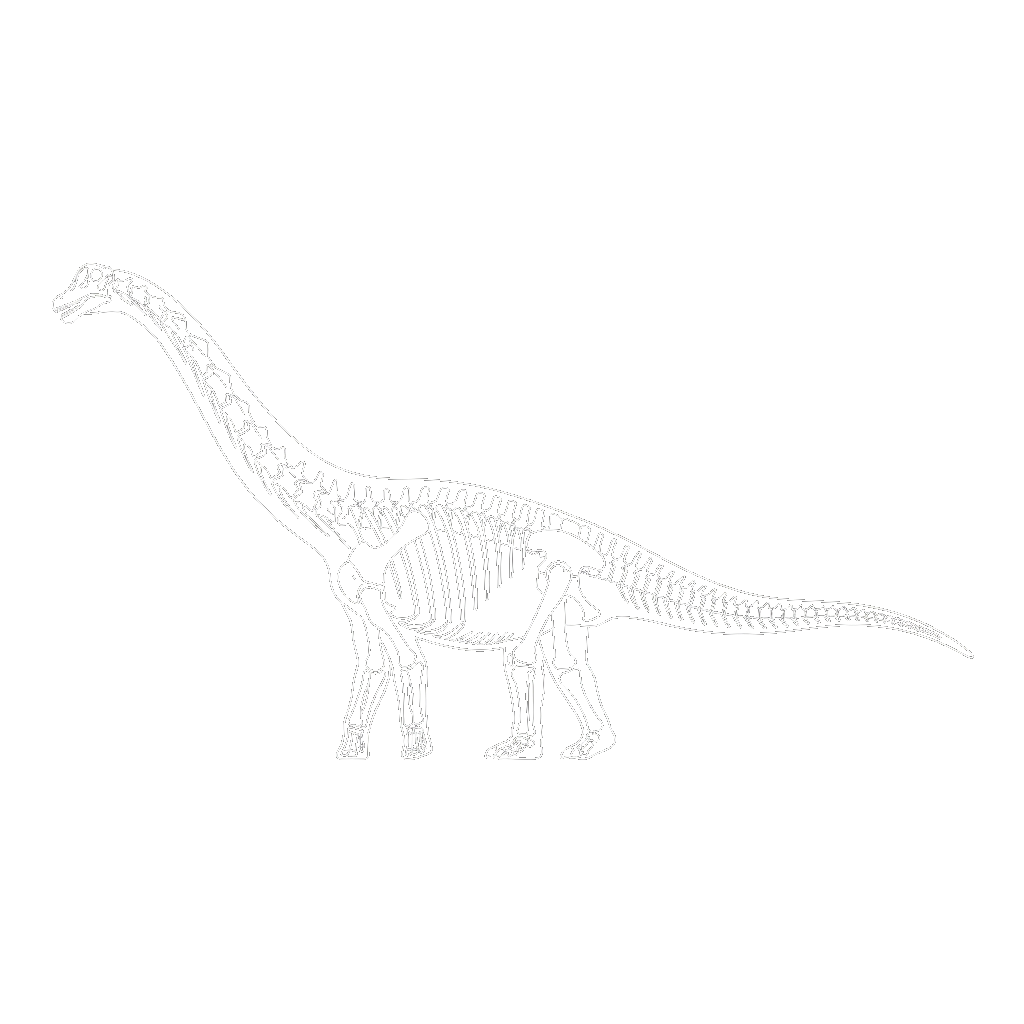
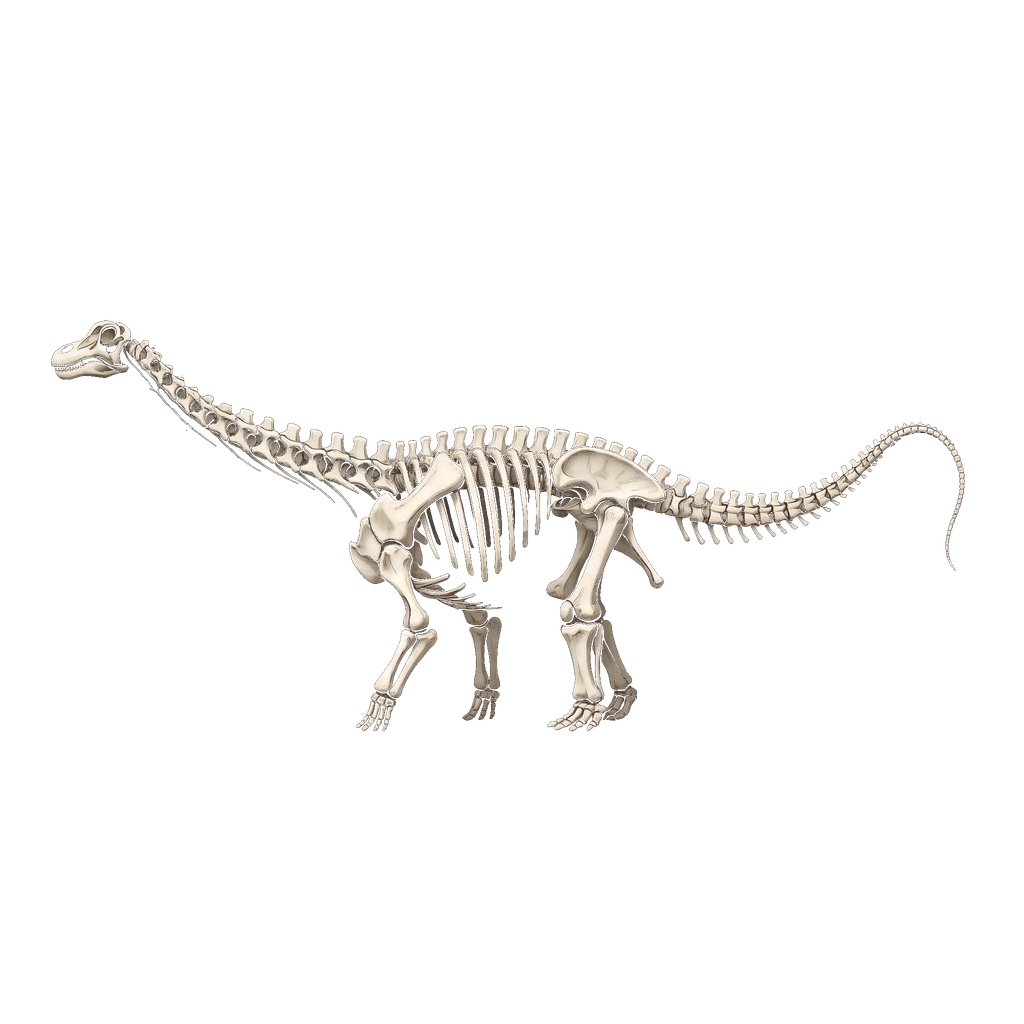
fix: ネメグトサウルスとプテロダウストロの骨格側面図を差し替え版で完全透過・接地スキャン更新

Changed region(s): [[0.0312, 0.25, 0.9375, 0.75], [0.9062, 0.5, 0.9375, 0.5312], [0.4062, 0.7188, 0.4375, 0.75]]

diff --git a/src/content/dinosaurs/nemegtosaurus.md b/src/content/dinosaurs/nemegtosaurus.md
@@ -19,10 +19,10 @@ bioTraits:
     value: "下向きの視野"
     detail: "頭骨の傾きから、比較的下方の地表植物を監視・採食するのに適していた"
 cyberMetadata:
-  bottomGap: 264
+  bottomGap: 292
   realHeight: 3.5
   realLength: 15
-  contentHeightPx: 497
+  contentHeightPx: 412
   sourceRes: 1024
   zoom: 1.1
 ---

diff --git a/src/content/dinosaurs/pterodaustro.md b/src/content/dinosaurs/pterodaustro.md
@@ -19,10 +19,10 @@ bioTraits:
     value: "浅瀬での歩行"
     detail: "四肢を使って浅瀬や泥地を器用に歩き回り、濾過給餌のスポットを探した"
 cyberMetadata:
-  bottomGap: 205
+  bottomGap: 134
   realHeight: 1
   realLength: 2.5
-  contentHeightPx: 614
+  contentHeightPx: 716
   sourceRes: 1024
   zoom: 1.8
 ---
